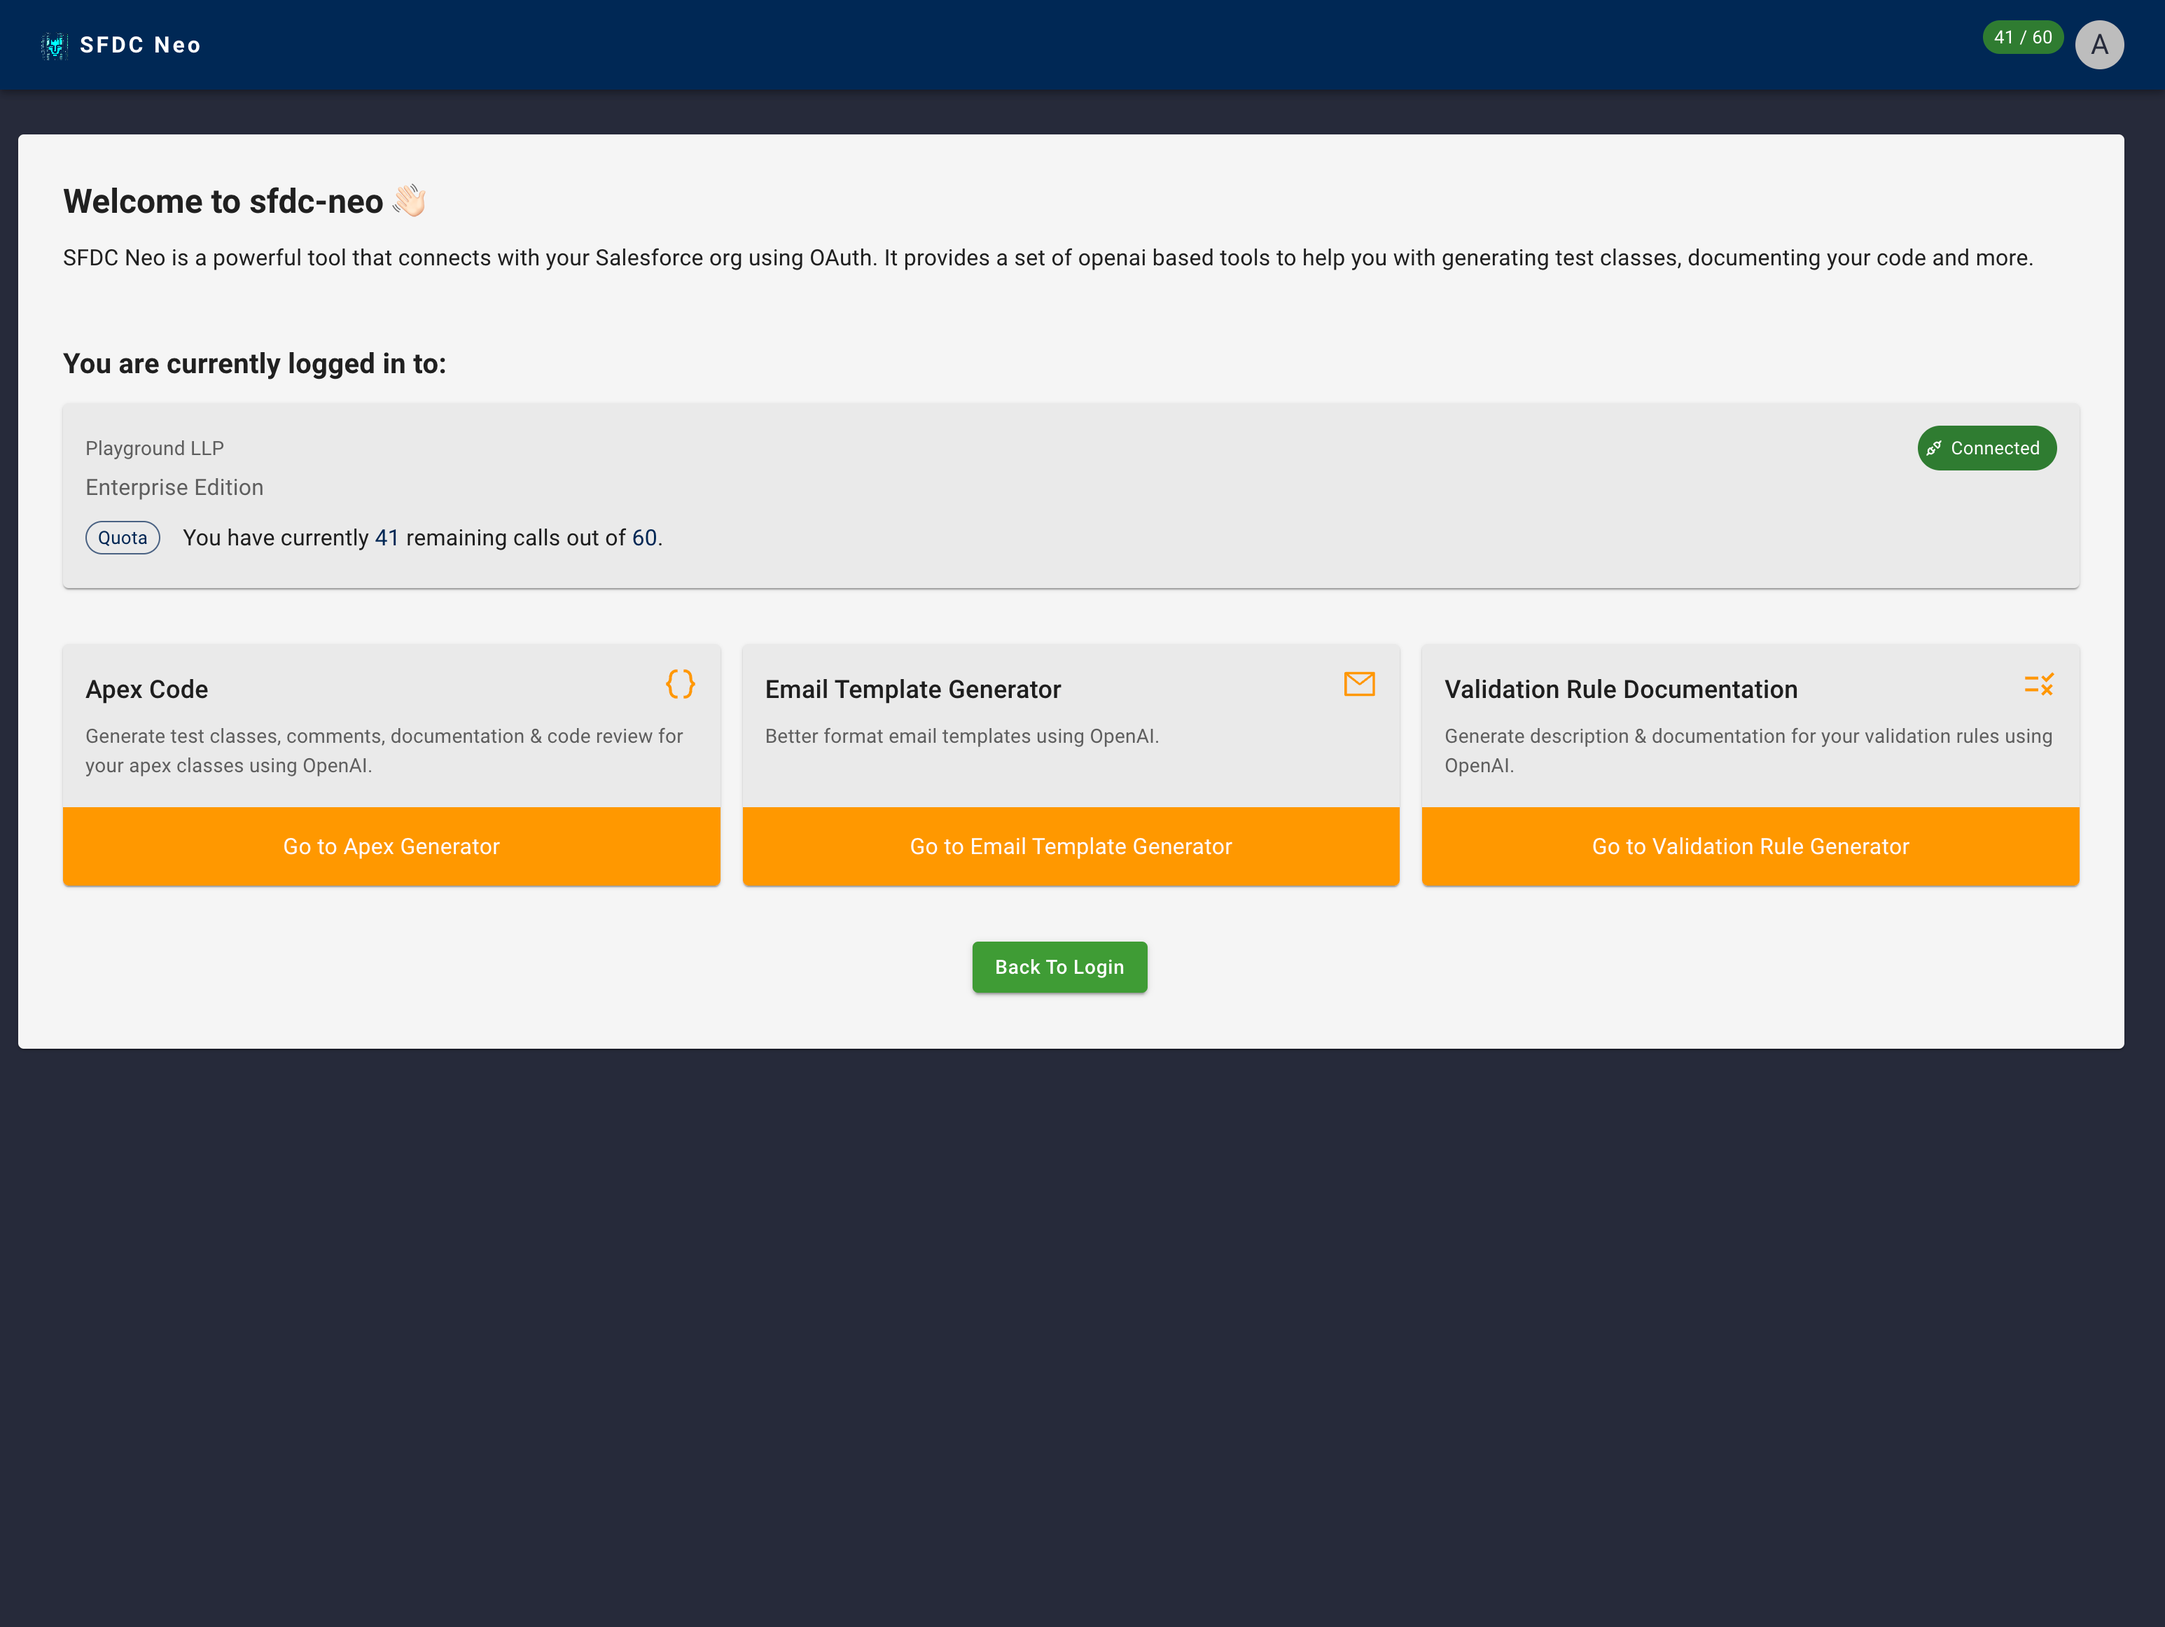
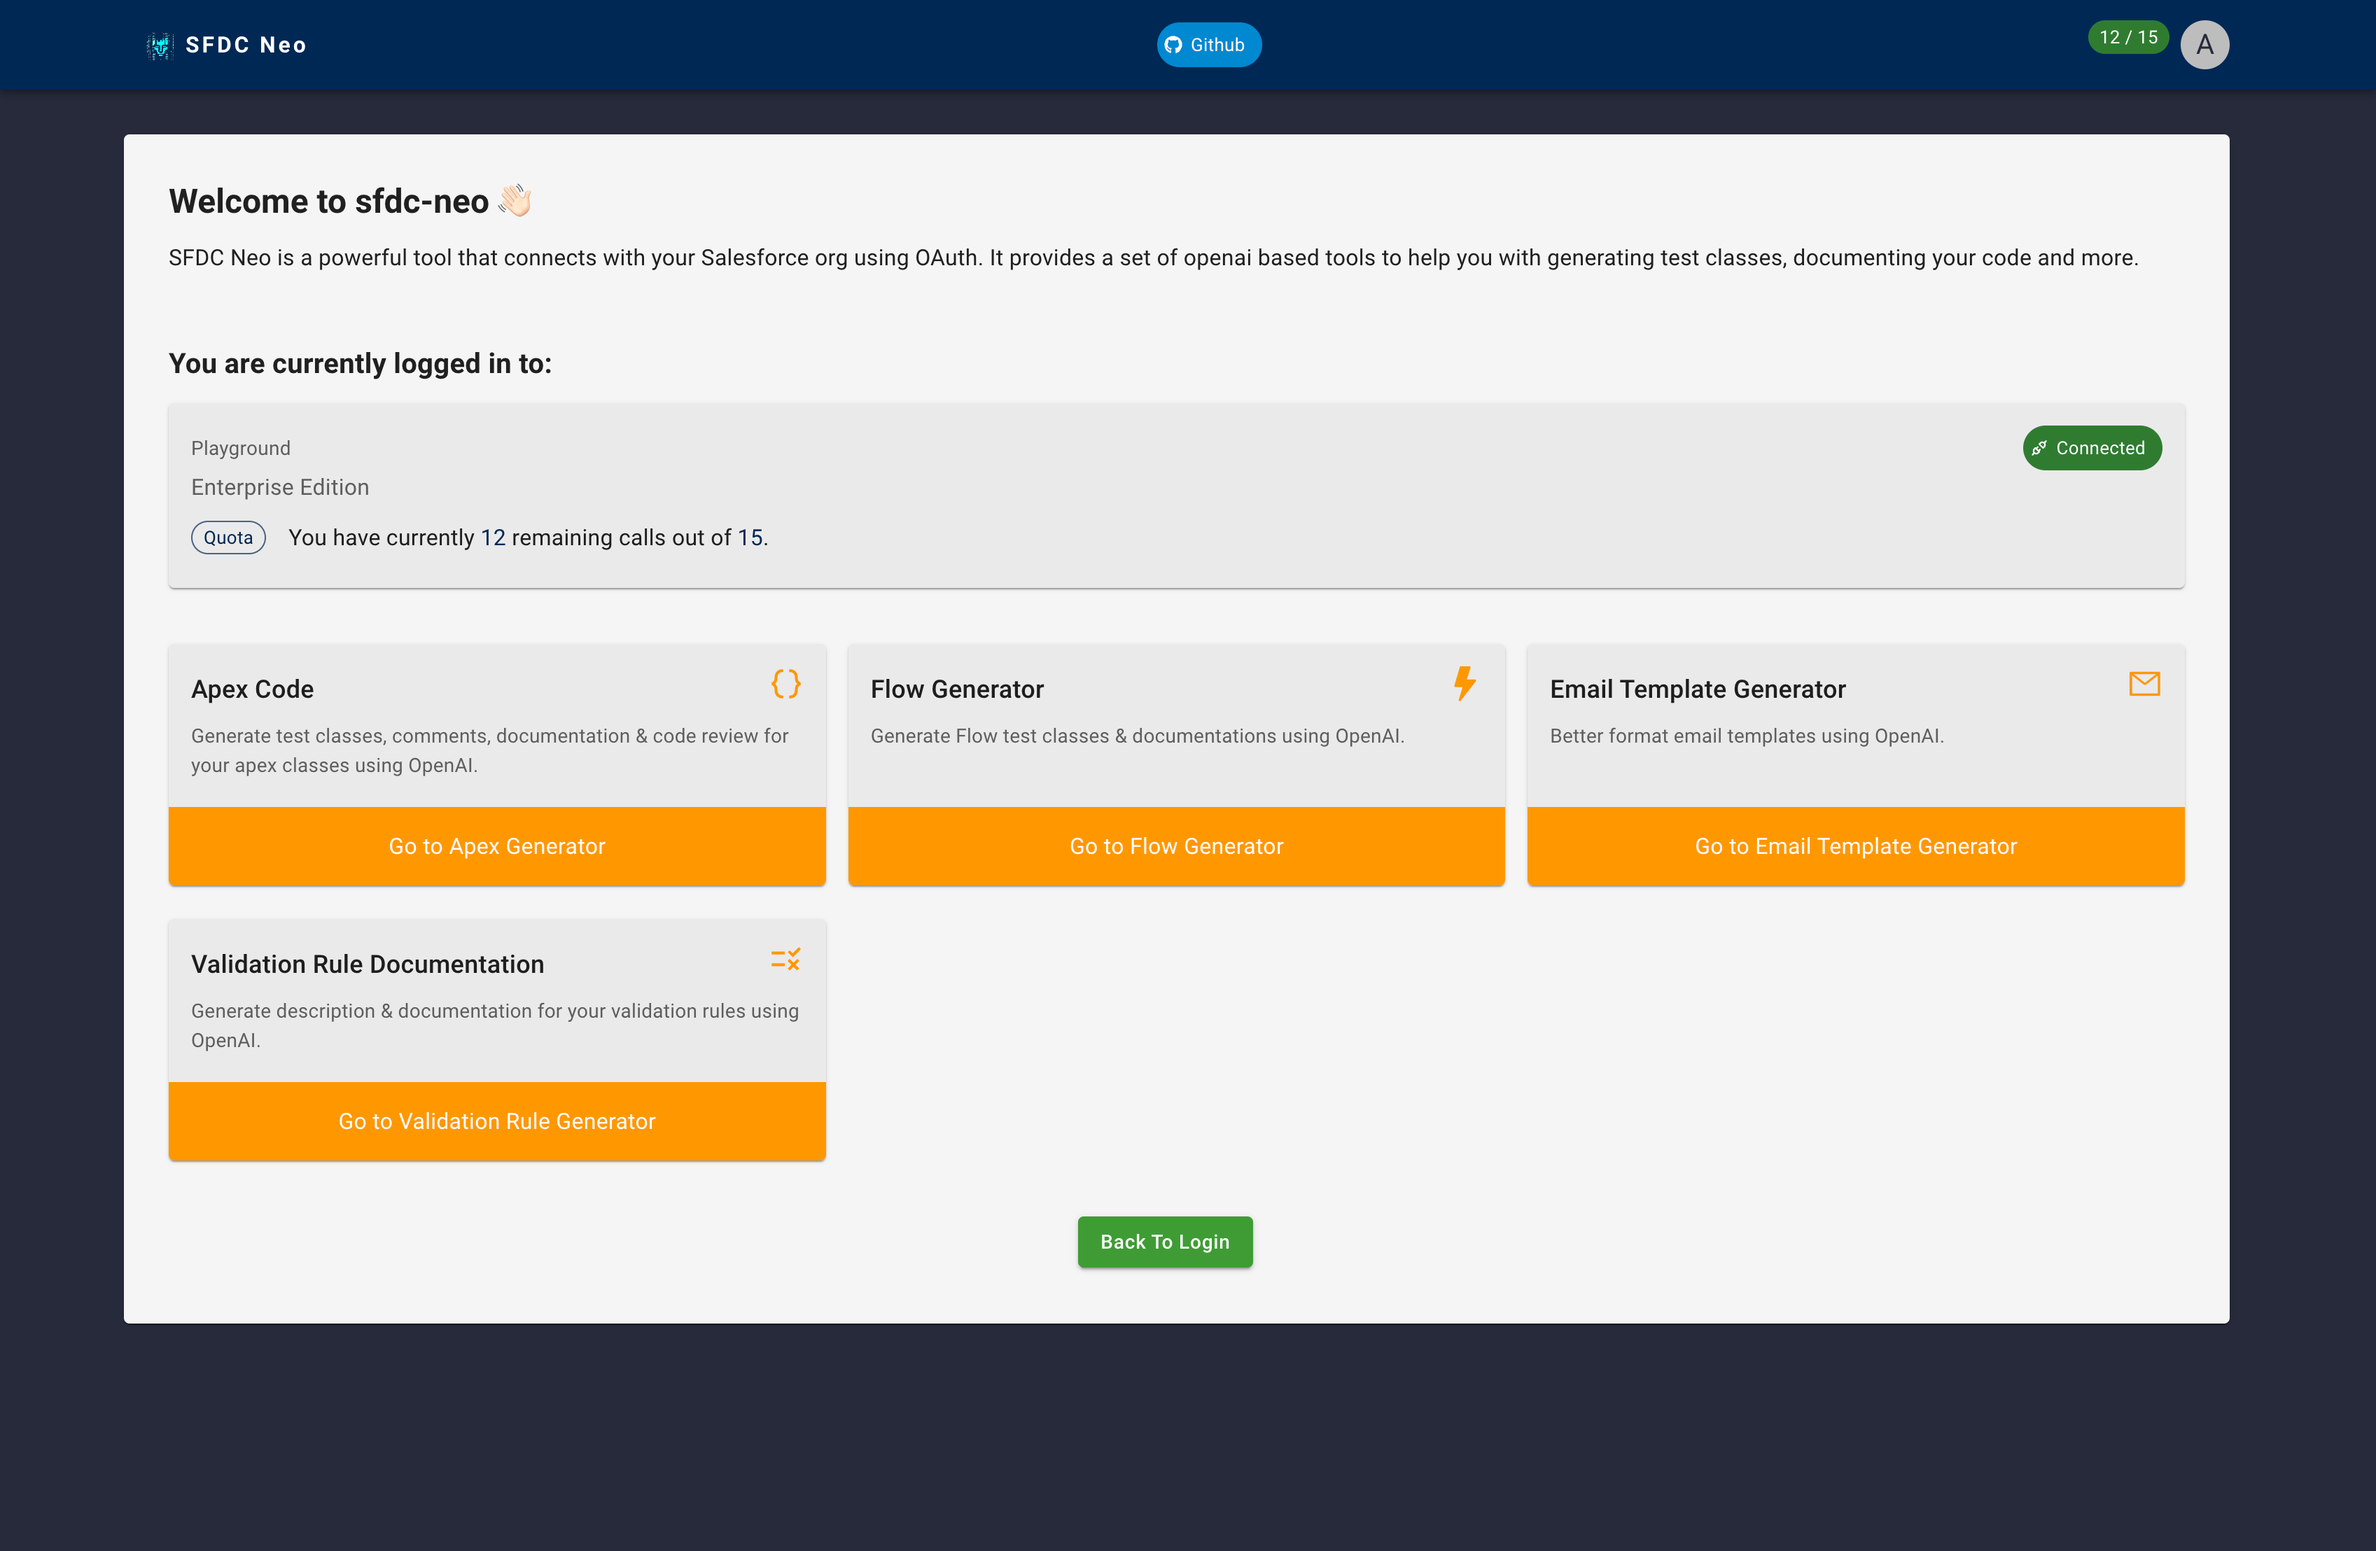
update document

diff --git a/src/client/pages/Login.js b/src/client/pages/Login.js
@@ -76,12 +76,31 @@ class Login extends React.Component {
                       component="div"
                     >
                       <ul className="feature-list">
-                        <li>Documenting code</li>
-                        <li>Generating test classes</li>
-                        <li>Adding comments to code</li>
-                        <li>Reviewing and refactoring code</li>
-                        <li>Better formatting email templates</li>
-                        <li>Documenting validation rules</li>
+                        <li>
+                          <b>Apex:</b> Document code
+                        </li>
+                        <li>
+                          <b>Apex:</b> Generating test classes
+                        </li>
+                        <li>
+                          <b>Apex:</b> Adding comments to code
+                        </li>
+                        <li>
+                          <b>Apex:</b> Reviewing and refactoring code
+                        </li>
+                        <li>
+                          <b>Email Templates:</b> Better formatting email
+                          templates
+                        </li>
+                        <li>
+                          <b>Validation Rules:</b> Documenting validation rules
+                        </li>
+                        <li>
+                          <b>Flow:</b> Document Flows
+                        </li>
+                        <li>
+                          <b>Flow:</b> Generate test classes for Flows
+                        </li>
                       </ul>
                     </Typography>
                     <Alert severity="info" color="info" sx={{ mt: 2 }}>

diff --git a/README.md b/README.md
@@ -11,6 +11,7 @@ Demo : https://neo.sfdxy.com/
    - **Code Review**: Receive intelligent insights and suggestions to improve the quality and efficiency of your Salesforce code.
    - **Email Template**: Better format email templates using OpenAI.
    - **Validation Rule**: Describe and document validation rule.
+   - **Flow**: Document and generate test classes.
    - **Validate & Deploy**: Easily validate and deploy the generated code from the app directly to your Salesforce org.
 
 
@@ -41,9 +42,9 @@ PRODUCTION_TOKEN_URL=https://login.salesforce.com/services/oauth2/token
 SANDBOX_AUTHORIZATION_URL=https://test.salesforce.com/services/oauth2/authorize
 SANDBOX_TOKEN_URL=https://test.salesforce.com/services/oauth2/token
 OPENAI_API_KEY=<your OpenAI API key>
-OPENAI_MAX_TOKENS=3000
+OPENAI_MAX_TOKENS=8000
 OPENAI_TEMPERATURE=0.3
-OPENAI_MODEL_NAME=gpt-3.5-turbo
+OPENAI_MODEL_NAME=gpt-3.5-turbo-16k
 # only needed for enabling quota, by default this shouldn't be needed
 ENABLE_QUOTA=true
 SUPABASE_URL=<your Supabase URL>
